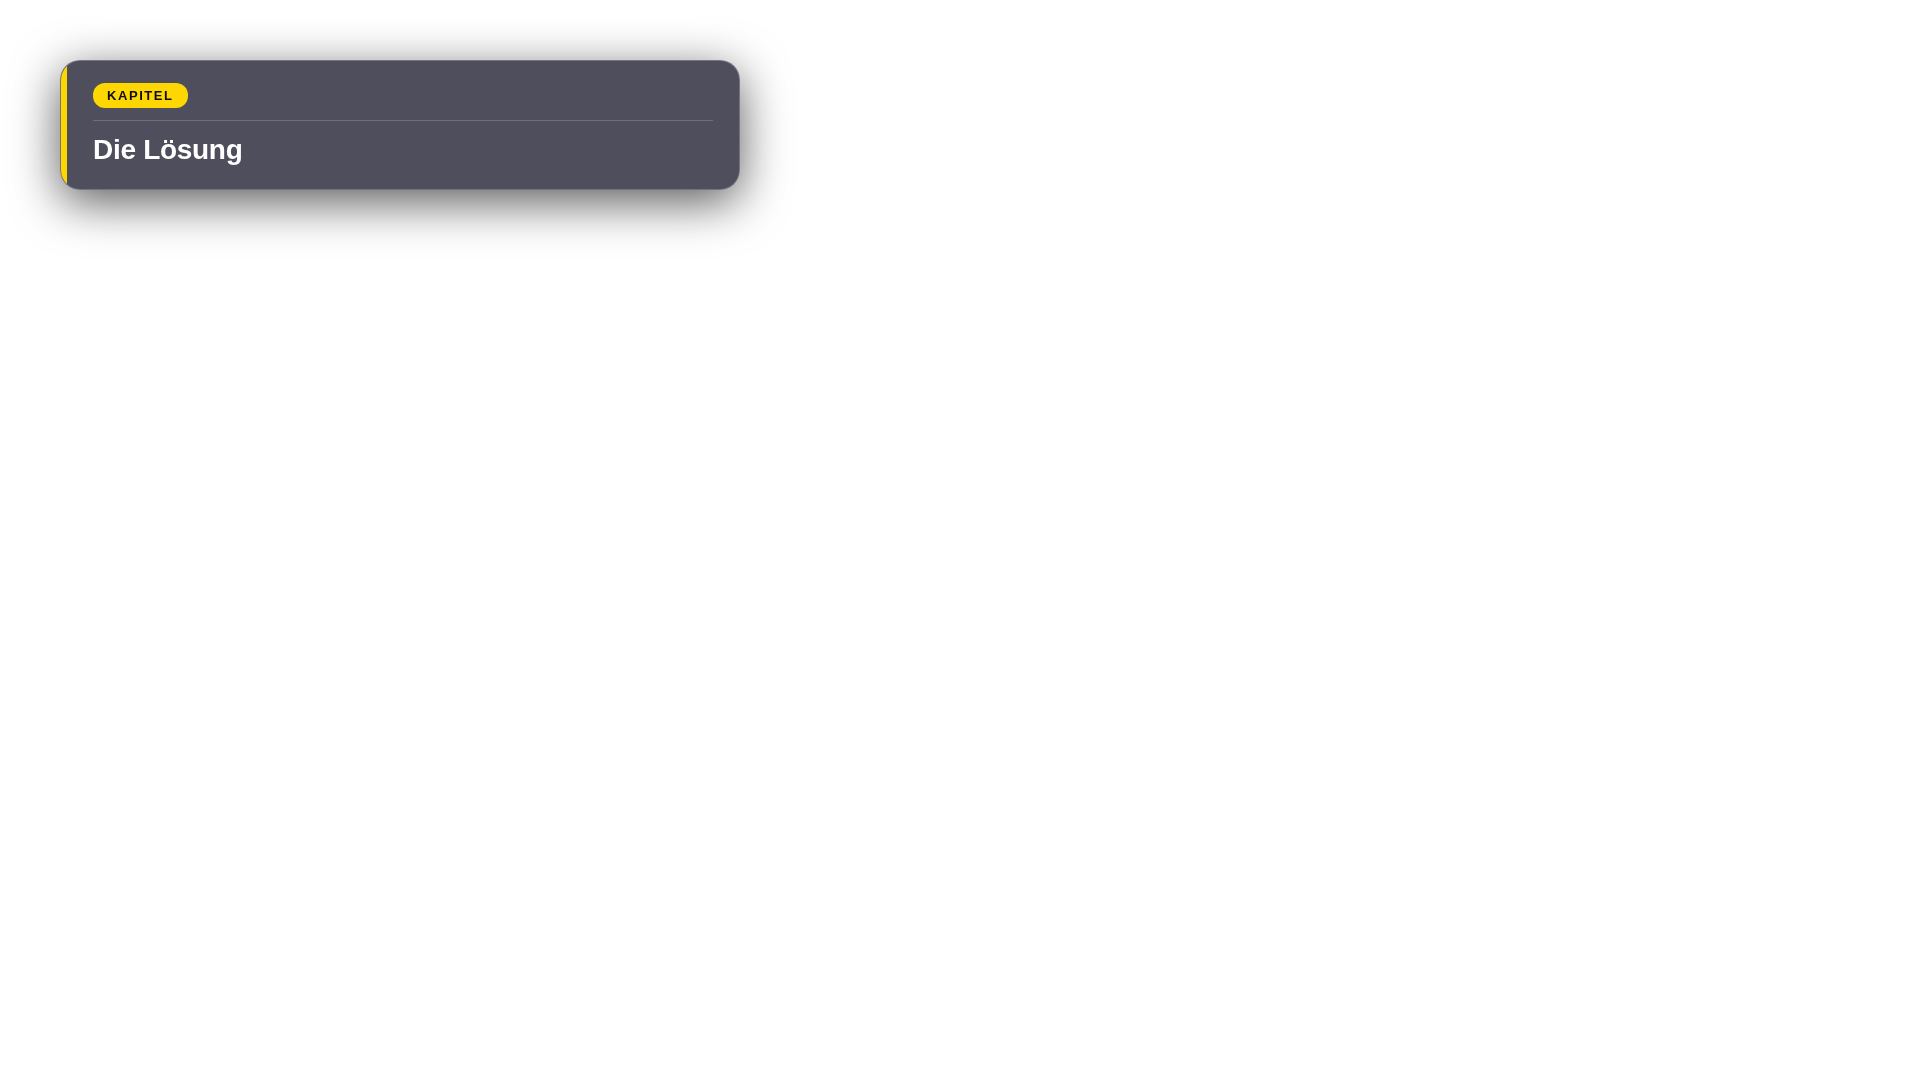
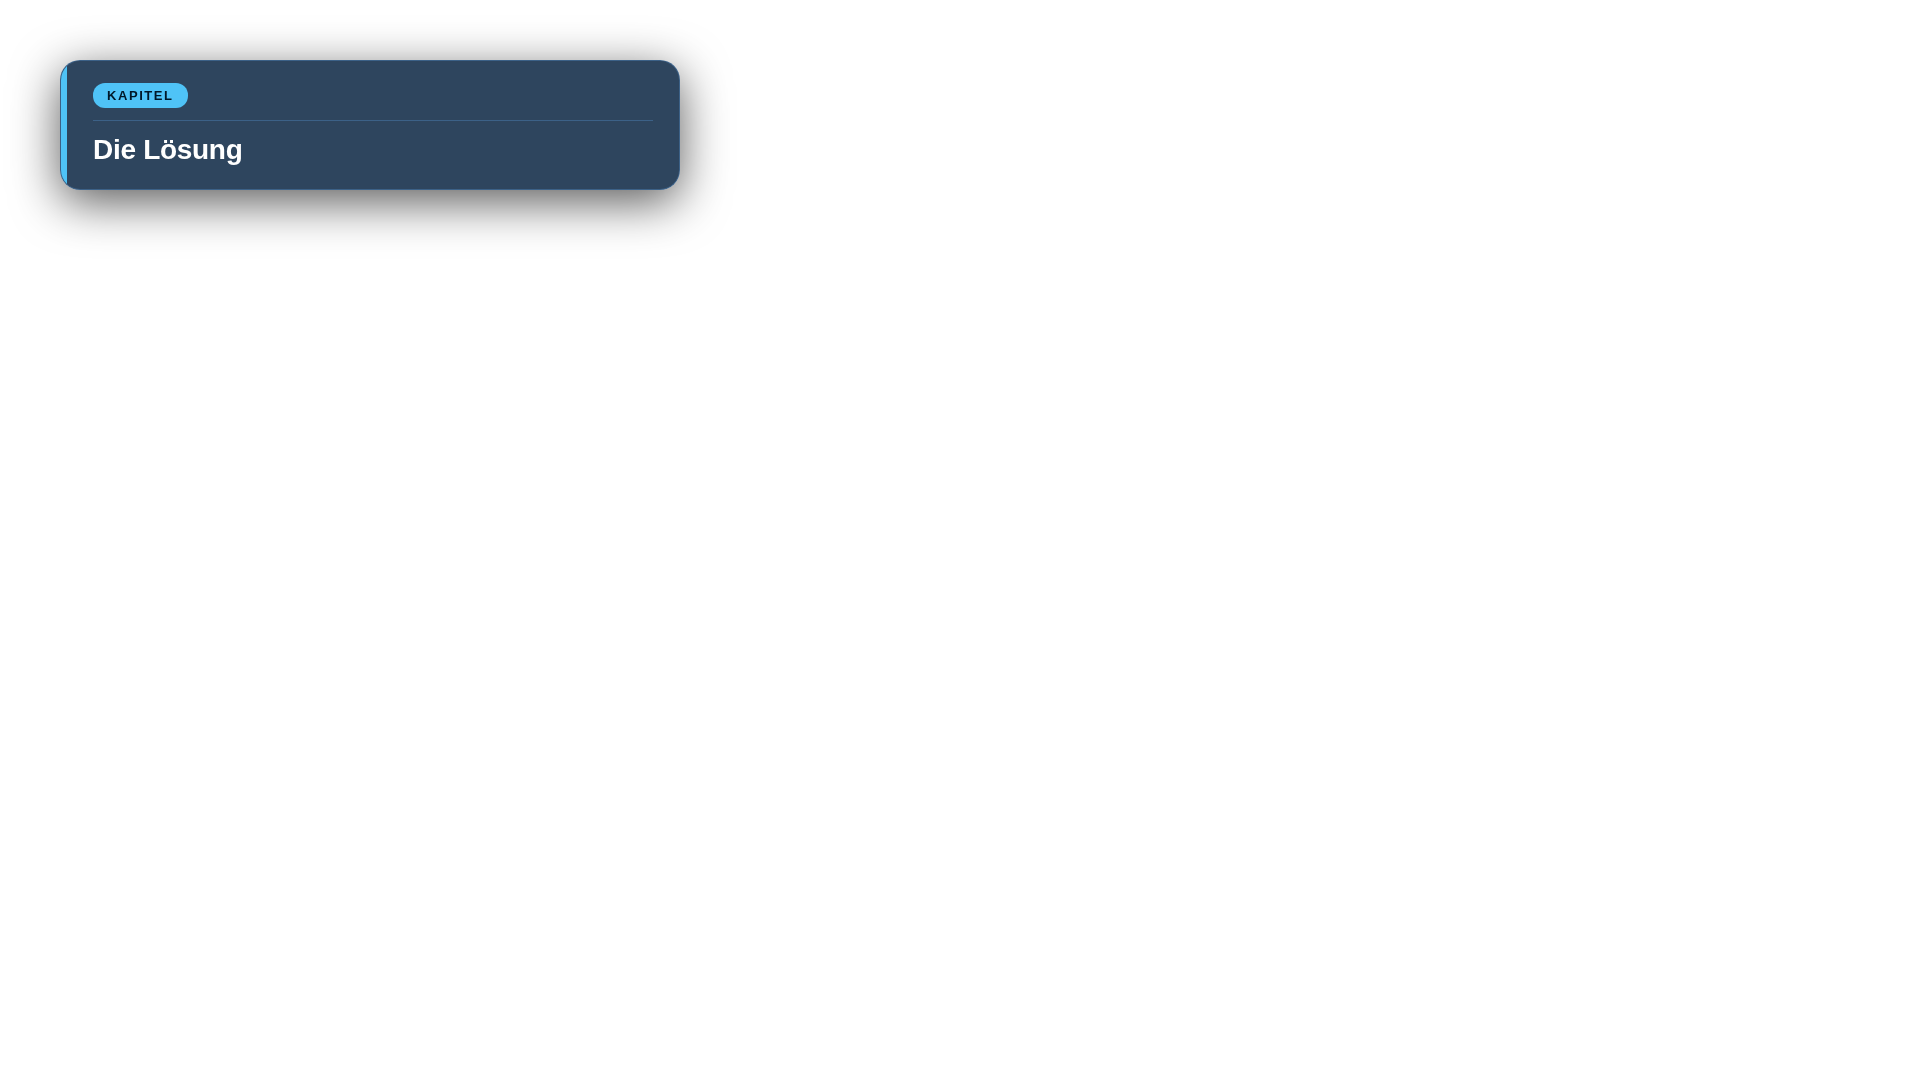
feat: chapter card redesign, card sound effects, early card timings
- Chapter cards: navy-blue bg + cyan stripe/badge (distinct from gold MG cards)
- Chapter cards positioned top-left, MG cards bottom-left
- First chapter card at 3s, stat-97h at 14s to fill empty opening
- Swoosh SFX on every card appearance (atrim 1.2s, vol 0.35)
- Removed intro overlay (stabilization)

https://claude.ai/code/session_01YVKjxmuvXQCEjxJCiHuiUD

Changed region(s): [[0.0312, 0.0306, 0.4062, 0.2139]]

diff --git a/projects/flughafen-de/build-video.py b/projects/flughafen-de/build-video.py
@@ -4,6 +4,7 @@ Assembles the final flughafen-de video using FFmpeg.
 
 Features:
   - Motion graphics cards + chapter marker cards
+  - Swoosh sound effect on every card appearance
   - Background music with auto-ducking sidechain compression
   - Captions (word-level gold highlight) — activates when word-timings.json present
 
@@ -23,14 +24,17 @@ SRC_VIDEO  = sys.argv[1] if len(sys.argv) > 1 else str(HERE / "source-video.mp4"
 OUT_VIDEO  = str(HERE / "output" / (Path(SRC_VIDEO).stem + "-final.mp4"))
 MANIFEST   = HERE / "card-manifest.json"
 WORDS_JSON = HERE / "word-timings.json"
+SWOOSH     = HERE / "swoosh.mp3"
 MUSIC      = SHARED / "music" / "sleep-music-chris-haugen.mp3"
 
-MUSIC_VOL  = 0.14
+MUSIC_VOL   = 0.14
+SWOOSH_VOL  = 0.35   # subtle but audible card impact
 
 Path(OUT_VIDEO).parent.mkdir(parents=True, exist_ok=True)
 
 # ── Validate inputs ───────────────────────────────────────────────────────────
-for label, path in [("Source video", SRC_VIDEO), ("Music", MUSIC), ("Manifest", MANIFEST)]:
+for label, path in [("Source video", SRC_VIDEO), ("Music", MUSIC),
+                    ("Swoosh", SWOOSH), ("Manifest", MANIFEST)]:
     if not Path(path).exists():
         print(f"ERROR: {label} not found: {path}")
         sys.exit(1)
@@ -68,15 +72,19 @@ for c in cards:
     if not p.is_absolute():
         c["path"] = str(HERE / p)
 
+n_cards = len(cards)
+
 # ── Build FFmpeg inputs ───────────────────────────────────────────────────────
-#   [0]  source video
-#   [1…N] card PNGs
-#   [N+1] background music
+#   [0]       source video
+#   [1…N]     card PNGs
+#   [N+1]     background music
+#   [N+2]     swoosh sfx
 inputs = ["-i", SRC_VIDEO]
 for c in cards:
     inputs += ["-i", c["path"]]
-music_idx = 1 + len(cards)
-inputs += ["-i", str(MUSIC)]
+music_idx  = 1 + n_cards
+swoosh_idx = music_idx + 1
+inputs += ["-i", str(MUSIC), "-i", str(SWOOSH)]
 
 # ── Video filter chain ────────────────────────────────────────────────────────
 vf = []
@@ -89,7 +97,7 @@ else:
 
 for idx, card in enumerate(cards):
     card_stream = idx + 1
-    is_last     = (idx == len(cards) - 1)
+    is_last     = (idx == n_cards - 1)
     out_label   = "[vout]" if is_last else f"[v{idx}]"
     vf.append(
         f"{current}[{card_stream}:v]overlay=0:0:"
@@ -102,7 +110,7 @@ for idx, card in enumerate(cards):
 af = []
 fade_dur = min(3.0, DURATION * 0.03)
 
-# Background music: loop → trim → fade in/out → volume
+# Background music: loop → trim → fade → volume
 af.append(
     f"[{music_idx}:a]aloop=loop=-1:size=2147483647,"
     f"atrim=duration={DURATION},"
@@ -118,8 +126,28 @@ af.append(
     "threshold=0.015:ratio=4:attack=200:release=1200:makeup=1[bg_ducked]"
 )
 
-# Final mix
-af.append("[voice_out][bg_ducked]amix=inputs=2:duration=first:weights=1 1[audio_out]")
+# Swoosh at every card inTime — split into N copies, delay each
+af.append(
+    f"[{swoosh_idx}:a]asplit={n_cards}"
+    + "".join(f"[sw_raw{i}]" for i in range(n_cards))
+)
+for i, card in enumerate(cards):
+    delay_ms = int(card["inTime"] * 1000)
+    af.append(
+        f"[sw_raw{i}]atrim=duration=1.2,"
+        f"adelay={delay_ms}|{delay_ms},"
+        f"volume={SWOOSH_VOL}[sw{i}]"
+    )
+
+# Final mix: voice + music + all swooshes
+sw_labels = "".join(f"[sw{i}]" for i in range(n_cards))
+n_mix     = 2 + n_cards
+af.append(
+    f"[voice_out][bg_ducked]{sw_labels}"
+    f"amix=inputs={n_mix}:duration=first:weights=1 1"
+    + " 0.8" * n_cards
+    + "[audio_out]"
+)
 
 # ── Assemble FFmpeg command ───────────────────────────────────────────────────
 filter_complex = ";".join(vf + af)
